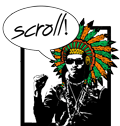
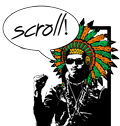
update styles

Changed region(s): [[0.15, 0.381, 0.325, 1.0], [0.4, 0.9524, 0.475, 1.0]]

diff --git a/public/css/styles.min.css b/public/css/styles.min.css
@@ -1,2 +1,2 @@
-*{-webkit-box-sizing:border-box;-moz-box-sizing:border-box;box-sizing:border-box}html,body{margin:0;padding:0}html{font-family:"Helvetica Neue", Helvetica, Arial, sans-serif;font-size:16px;line-height:1.5}@media (min-width: 38em){html{font-size:20px}}body{color:#515151;background-color:#fff;-webkit-text-size-adjust:100%;-ms-text-size-adjust:100%}a{color:#268bd2;text-decoration:none}a strong{color:inherit}a:hover,a:focus{text-decoration:underline}h1,h2,h3,h4,h5,h6{margin-bottom:.5rem;font-weight:bold;line-height:1.25;color:#313131;text-rendering:optimizeLegibility}h1{font-size:2rem}h2{margin-top:1rem;font-size:1.5rem}h3{margin-top:1.5rem;font-size:1.25rem}h4,h5,h6{margin-top:1rem;font-size:1rem}p{margin-top:0;margin-bottom:1rem}strong{color:#303030}ul,ol,dl{margin-top:0;margin-bottom:1rem}dt{font-weight:bold}dd{margin-bottom:.5rem}hr{position:relative;margin:1.5rem 0;border:0;border-top:1px solid #eee;border-bottom:1px solid #fff}abbr{font-size:85%;font-weight:bold;color:#555;text-transform:uppercase}abbr[title]{cursor:help;border-bottom:1px dotted #e5e5e5}code,pre{font-family:Menlo, Monaco, "Courier New", monospace}code{padding:.25em .5em;font-size:85%;color:#bf616a;background-color:#f9f9f9;border-radius:3px}pre{display:block;margin-top:0;margin-bottom:1rem;padding:1rem;font-size:.8rem;line-height:1.4;white-space:pre;word-break:normal;word-wrap:normal;overflow:auto;background-color:#f9f9f9}pre code{padding:0;font-size:100%;color:inherit;background-color:transparent}.highlight{margin-bottom:1rem;border-radius:4px}.highlight pre{margin-bottom:0}.gist .gist-file{font-family:Menlo, Monaco, "Courier New", monospace !important}.gist .markdown-body{padding:15px}.gist pre{padding:0;background-color:transparent}.gist .gist-file .gist-data{font-size:.8rem !important;line-height:1.4}.gist code{padding:0;color:inherit;background-color:transparent;border-radius:0}blockquote{padding:.5rem 1rem;margin:.8rem 0;color:#7a7a7a;border-left:.25rem solid #e5e5e5}blockquote p:last-child{margin-bottom:0}@media (min-width: 30em){blockquote{padding-right:5rem;padding-left:1.25rem}}img{display:block;max-width:100%;margin:0 0 1rem;border-radius:5px}table{margin-bottom:1rem;width:100%;border:1px solid #e5e5e5;border-collapse:collapse}td,th{padding:.25rem .5rem;border:1px solid #e5e5e5}tbody tr:nth-child(odd) td,tbody tr:nth-child(odd) th{background-color:#f9f9f9}.lead{font-size:1.25rem;font-weight:300}.message{margin-bottom:1rem;padding:1rem;color:#717171;background-color:#f9f9f9}.container{max-width:38rem;padding-left:1rem;padding-right:1rem;margin-left:auto;margin-right:auto}.masthead{padding-top:1rem;padding-bottom:1rem;margin-bottom:3rem}.masthead-title{margin-top:0;margin-bottom:0;color:#505050}.masthead-title a{color:#505050}.masthead-title small{font-size:75%;font-weight:400;color:#c0c0c0;letter-spacing:0}.page,.post{margin-bottom:4em}.page-title,.post-title,.post-title a{color:#303030}.page-title,.post-title{margin-top:0}.post-date{display:block;margin-top:-.5rem;margin-bottom:1rem;color:#9a9a9a}.related{padding-top:2rem;padding-bottom:2rem;border-top:1px solid #eee}.related-posts{padding-left:0;list-style:none}.related-posts h3{margin-top:0}.related-posts li small{font-size:75%;color:#999}.related-posts li a:hover{color:#268bd2;text-decoration:none}.related-posts li a:hover small{color:inherit}.pagination{overflow:hidden;margin-left:-1rem;margin-right:-1rem;font-family:"PT Sans", Helvetica, Arial, sans-serif;color:#ccc;text-align:center}.pagination-item{display:block;padding:1rem;border:1px solid #eee}.pagination-item:first-child{margin-bottom:-1px}a.pagination-item:hover{background-color:#f5f5f5}@media (min-width: 30em){.pagination{margin:3rem 0}.pagination-item{float:left;width:50%}.pagination-item:first-child{margin-bottom:0;border-top-left-radius:4px;border-bottom-left-radius:4px}.pagination-item:last-child{margin-left:-1px;border-top-right-radius:4px;border-bottom-right-radius:4px}}.highlight .hll{background-color:#ffc}.highlight .c{color:#999}.highlight .err{color:#a00;background-color:#faa}.highlight .k{color:#069}.highlight .o{color:#555}.highlight .cm{color:#09f;font-style:italic}.highlight .cp{color:#099}.highlight .c1{color:#999}.highlight .cs{color:#999}.highlight .gd{background-color:#fcc;border:1px solid #c00}.highlight .ge{font-style:italic}.highlight .gr{color:red}.highlight .gh{color:#030}.highlight .gi{background-color:#cfc;border:1px solid #0c0}.highlight .go{color:#aaa}.highlight .gp{color:#009}.highlight .gu{color:#030}.highlight .gt{color:#9c6}.highlight .kc{color:#069}.highlight .kd{color:#069}.highlight .kn{color:#069}.highlight .kp{color:#069}.highlight .kr{color:#069}.highlight .kt{color:#078}.highlight .m{color:#f60}.highlight .s{color:#d44950}.highlight .na{color:#4f9fcf}.highlight .nb{color:#366}.highlight .nc{color:#0a8}.highlight .no{color:#360}.highlight .nd{color:#99f}.highlight .ni{color:#999}.highlight .ne{color:#c00}.highlight .nf{color:#c0f}.highlight .nl{color:#99f}.highlight .nn{color:#0cf}.highlight .nt{color:#2f6f9f}.highlight .nv{color:#033}.highlight .ow{color:#000}.highlight .w{color:#bbb}.highlight .mf{color:#f60}.highlight .mh{color:#f60}.highlight .mi{color:#f60}.highlight .mo{color:#f60}.highlight .sb{color:#c30}.highlight .sc{color:#c30}.highlight .sd{color:#c30;font-style:italic}.highlight .s2{color:#c30}.highlight .se{color:#c30}.highlight .sh{color:#c30}.highlight .si{color:#a00}.highlight .sx{color:#c30}.highlight .sr{color:#3aa}.highlight .s1{color:#c30}.highlight .ss{color:#fc3}.highlight .bp{color:#366}.highlight .vc{color:#033}.highlight .vg{color:#033}.highlight .vi{color:#033}.highlight .il{color:#f60}.css .o,.css .o+.nt,.css .nt+.nt{color:#999}html{font-family:"PT Sans", Helvetica, Arial, sans-serif}@media (min-width: 48em){html{font-size:16px}}@media (min-width: 58em){html{font-size:20px}}.sidebar{text-align:center;padding:2rem 1rem;color:rgba(255,255,255,0.5);background-color:#202020}@media (min-width: 48em){.sidebar{position:fixed;top:0;left:0;bottom:0;width:18rem;text-align:left}}.sidebar a{color:#fff}.sidebar-about h1{color:#fff;margin-top:0;font-family:"Abril Fatface", serif;font-size:3.25rem}.sidebar-nav{margin-bottom:1rem}.sidebar-nav-item{display:block}a.sidebar-nav-item:hover,a.sidebar-nav-item:focus{text-decoration:underline}.sidebar-nav-item.active{font-weight:bold}@media (min-width: 48em){.sidebar-sticky{position:absolute;right:1rem;bottom:1rem;left:1rem}}.content{padding-top:4rem;padding-bottom:4rem}@media (min-width: 48em){.content{max-width:55rem;margin-left:20rem;margin-right:2rem}}@media (min-width: 64em){.content{margin-left:22rem;margin-right:4rem}}@media (min-width: 48em){.layout-reverse .sidebar{left:auto;right:0}.layout-reverse .content{margin-left:2rem;margin-right:20rem}}@media (min-width: 64em){.layout-reverse .content{margin-left:4rem;margin-right:22rem}}.theme-base-08 .sidebar{background-color:#ac4142}.theme-base-08 .content a,.theme-base-08 .related-posts li a:hover{color:#ac4142}.theme-base-09 .sidebar{background-color:#d28445}.theme-base-09 .content a,.theme-base-09 .related-posts li a:hover{color:#d28445}.theme-base-0a .sidebar{background-color:#f4bf75}.theme-base-0a .content a,.theme-base-0a .related-posts li a:hover{color:#f4bf75}.theme-base-0b .sidebar{background-color:#90a959}.theme-base-0b .content a,.theme-base-0b .related-posts li a:hover{color:#90a959}.theme-base-0c .sidebar{background-color:#75b5aa}.theme-base-0c .content a,.theme-base-0c .related-posts li a:hover{color:#75b5aa}.theme-base-0d .sidebar{background-color:#6a9fb5}.theme-base-0d .content a,.theme-base-0d .related-posts li a:hover{color:#6a9fb5}.theme-base-0e .sidebar{background-color:#aa759f}.theme-base-0e .content a,.theme-base-0e .related-posts li a:hover{color:#aa759f}.theme-base-0f .sidebar{background-color:#8f5536}.theme-base-0f .content a,.theme-base-0f .related-posts li a:hover{color:#8f5536}.pow-wow{position:fixed;bottom:-13px;right:0}.read-more{width:85%;margin:30px 0 100px;text-align:center;font-size:large}.read-more a{padding:10px;border:1px solid;text-decoration:none;transition:background 300ms}.read-more a:hover{background:rgba(43,167,255,0.25)}
+*{-webkit-box-sizing:border-box;-moz-box-sizing:border-box;box-sizing:border-box}html,body{margin:0;padding:0}html{font-family:"Helvetica Neue", Helvetica, Arial, sans-serif;font-size:16px;line-height:1.5}@media (min-width: 38em){html{font-size:20px}}body{color:#515151;background-color:#fff;-webkit-text-size-adjust:100%;-ms-text-size-adjust:100%}a{color:#268bd2;text-decoration:none}a strong{color:inherit}a:hover,a:focus{text-decoration:underline}h1,h2,h3,h4,h5,h6{margin-bottom:.5rem;font-weight:bold;line-height:1.25;color:#313131;text-rendering:optimizeLegibility}h1{font-size:2rem}h2{margin-top:1rem;font-size:1.5rem}h3{margin-top:1.5rem;font-size:1.25rem}h4,h5,h6{margin-top:1rem;font-size:1rem}p{margin-top:0;margin-bottom:1rem}strong{color:#303030}ul,ol,dl{margin-top:0;margin-bottom:1rem}dt{font-weight:bold}dd{margin-bottom:.5rem}hr{position:relative;margin:1.5rem 0;border:0;border-top:1px solid #eee;border-bottom:1px solid #fff}abbr{font-size:85%;font-weight:bold;color:#555;text-transform:uppercase}abbr[title]{cursor:help;border-bottom:1px dotted #e5e5e5}code,pre{font-family:Menlo, Monaco, "Courier New", monospace}code{padding:.25em .5em;font-size:85%;color:#bf616a;background-color:#f9f9f9;border-radius:3px}pre{display:block;margin-top:0;margin-bottom:1rem;padding:1rem;font-size:.8rem;line-height:1.4;white-space:pre;word-break:normal;word-wrap:normal;overflow:auto;background-color:#f9f9f9}pre code{padding:0;font-size:100%;color:inherit;background-color:transparent}.highlight{margin-bottom:1rem;border-radius:4px}.highlight pre{margin-bottom:0}.gist .gist-file{font-family:Menlo, Monaco, "Courier New", monospace !important}.gist .markdown-body{padding:15px}.gist pre{padding:0;background-color:transparent}.gist .gist-file .gist-data{font-size:.8rem !important;line-height:1.4}.gist code{padding:0;color:inherit;background-color:transparent;border-radius:0}blockquote{padding:.5rem 1rem;margin:.8rem 0;color:#7a7a7a;border-left:.25rem solid #e5e5e5}blockquote p:last-child{margin-bottom:0}@media (min-width: 30em){blockquote{padding-right:5rem;padding-left:1.25rem}}img{display:block;max-width:100%;margin:0 0 1rem;border-radius:5px}table{margin-bottom:1rem;width:100%;border:1px solid #e5e5e5;border-collapse:collapse}td,th{padding:.25rem .5rem;border:1px solid #e5e5e5}tbody tr:nth-child(odd) td,tbody tr:nth-child(odd) th{background-color:#f9f9f9}.lead{font-size:1.25rem;font-weight:300}.message{margin-bottom:1rem;padding:1rem;color:#717171;background-color:#f9f9f9}.container{max-width:38rem;padding-left:1rem;padding-right:1rem;margin-left:auto;margin-right:auto}.masthead{padding-top:1rem;padding-bottom:1rem;margin-bottom:3rem}.masthead-title{margin-top:0;margin-bottom:0;color:#505050}.masthead-title a{color:#505050}.masthead-title small{font-size:75%;font-weight:400;color:#c0c0c0;letter-spacing:0}.page,.post{margin-bottom:4em}.page-title,.post-title,.post-title a{color:#303030}.page-title,.post-title{margin-top:0}.post-date{display:block;margin-top:-.5rem;margin-bottom:1rem;color:#9a9a9a}.related{padding-top:2rem;padding-bottom:2rem;border-top:1px solid #eee}.related-posts{padding-left:0;list-style:none}.related-posts h3{margin-top:0}.related-posts li small{font-size:75%;color:#999}.related-posts li a:hover{color:#268bd2;text-decoration:none}.related-posts li a:hover small{color:inherit}.pagination{overflow:hidden;margin-left:-1rem;margin-right:-1rem;font-family:"PT Sans", Helvetica, Arial, sans-serif;color:#ccc;text-align:center}.pagination-item{display:block;padding:1rem;border:1px solid #eee}.pagination-item:first-child{margin-bottom:-1px}a.pagination-item:hover{background-color:#f5f5f5}@media (min-width: 30em){.pagination{margin:3rem 0}.pagination-item{float:left;width:50%}.pagination-item:first-child{margin-bottom:0;border-top-left-radius:4px;border-bottom-left-radius:4px}.pagination-item:last-child{margin-left:-1px;border-top-right-radius:4px;border-bottom-right-radius:4px}}.highlight .hll{background-color:#ffc}.highlight .c{color:#999}.highlight .err{color:#a00;background-color:#faa}.highlight .k{color:#069}.highlight .o{color:#555}.highlight .cm{color:#09f;font-style:italic}.highlight .cp{color:#099}.highlight .c1{color:#999}.highlight .cs{color:#999}.highlight .gd{background-color:#fcc;border:1px solid #c00}.highlight .ge{font-style:italic}.highlight .gr{color:red}.highlight .gh{color:#030}.highlight .gi{background-color:#cfc;border:1px solid #0c0}.highlight .go{color:#aaa}.highlight .gp{color:#009}.highlight .gu{color:#030}.highlight .gt{color:#9c6}.highlight .kc{color:#069}.highlight .kd{color:#069}.highlight .kn{color:#069}.highlight .kp{color:#069}.highlight .kr{color:#069}.highlight .kt{color:#078}.highlight .m{color:#f60}.highlight .s{color:#d44950}.highlight .na{color:#4f9fcf}.highlight .nb{color:#366}.highlight .nc{color:#0a8}.highlight .no{color:#360}.highlight .nd{color:#99f}.highlight .ni{color:#999}.highlight .ne{color:#c00}.highlight .nf{color:#c0f}.highlight .nl{color:#99f}.highlight .nn{color:#0cf}.highlight .nt{color:#2f6f9f}.highlight .nv{color:#033}.highlight .ow{color:#000}.highlight .w{color:#bbb}.highlight .mf{color:#f60}.highlight .mh{color:#f60}.highlight .mi{color:#f60}.highlight .mo{color:#f60}.highlight .sb{color:#c30}.highlight .sc{color:#c30}.highlight .sd{color:#c30;font-style:italic}.highlight .s2{color:#c30}.highlight .se{color:#c30}.highlight .sh{color:#c30}.highlight .si{color:#a00}.highlight .sx{color:#c30}.highlight .sr{color:#3aa}.highlight .s1{color:#c30}.highlight .ss{color:#fc3}.highlight .bp{color:#366}.highlight .vc{color:#033}.highlight .vg{color:#033}.highlight .vi{color:#033}.highlight .il{color:#f60}.css .o,.css .o+.nt,.css .nt+.nt{color:#999}html{font-family:"PT Sans", Helvetica, Arial, sans-serif}@media (min-width: 48em){html{font-size:16px}}@media (min-width: 58em){html{font-size:20px}}.sidebar{text-align:center;padding:2rem 1rem;color:rgba(255,255,255,0.5);background-color:#202020}@media (min-width: 48em){.sidebar{position:fixed;top:0;left:0;bottom:0;width:18rem;text-align:left}}.sidebar a{color:#fff}.sidebar-about h1{color:#fff;margin-top:0;font-family:"Abril Fatface", serif;font-size:3.25rem}.sidebar-nav{margin-bottom:1rem}.sidebar-nav-item{display:block}a.sidebar-nav-item:hover,a.sidebar-nav-item:focus{text-decoration:underline}.sidebar-nav-item.active{font-weight:bold}@media (min-width: 48em){.sidebar-sticky{position:absolute;right:1rem;bottom:1rem;left:1rem}}.content{padding-top:4rem;padding-bottom:4rem}@media (min-width: 48em){.content{max-width:55rem;margin-left:20rem;margin-right:2rem}}@media (min-width: 64em){.content{margin-left:22rem;margin-right:4rem}}@media (min-width: 48em){.layout-reverse .sidebar{left:auto;right:0}.layout-reverse .content{margin-left:2rem;margin-right:20rem}}@media (min-width: 64em){.layout-reverse .content{margin-left:4rem;margin-right:22rem}}.theme-base-08 .sidebar{background-color:#ac4142}.theme-base-08 .content a,.theme-base-08 .related-posts li a:hover{color:#ac4142}.theme-base-09 .sidebar{background-color:#d28445}.theme-base-09 .content a,.theme-base-09 .related-posts li a:hover{color:#d28445}.theme-base-0a .sidebar{background-color:#f4bf75}.theme-base-0a .content a,.theme-base-0a .related-posts li a:hover{color:#f4bf75}.theme-base-0b .sidebar{background-color:#90a959}.theme-base-0b .content a,.theme-base-0b .related-posts li a:hover{color:#90a959}.theme-base-0c .sidebar{background-color:#75b5aa}.theme-base-0c .content a,.theme-base-0c .related-posts li a:hover{color:#75b5aa}.theme-base-0d .sidebar{background-color:#6a9fb5}.theme-base-0d .content a,.theme-base-0d .related-posts li a:hover{color:#6a9fb5}.theme-base-0e .sidebar{background-color:#aa759f}.theme-base-0e .content a,.theme-base-0e .related-posts li a:hover{color:#aa759f}.theme-base-0f .sidebar{background-color:#8f5536}.theme-base-0f .content a,.theme-base-0f .related-posts li a:hover{color:#8f5536}.pow-wow{position:fixed;bottom:-16px;right:-9px}.read-more{width:85%;margin:30px 0 100px;text-align:center;font-size:large}.read-more a{padding:10px;border:1px solid;text-decoration:none;transition:background 300ms}.read-more a:hover{background:rgba(43,167,255,0.25)}
 /*# sourceMappingURL=styles.min.css.map */

diff --git a/_layouts/default.html b/_layouts/default.html
@@ -11,5 +11,16 @@
       {{ content }}
     </div>
 
+    <script>
+        (function(i,s,o,g,r,a,m){i['GoogleAnalyticsObject']=r;i[r]=i[r]||function(){
+                    (i[r].q=i[r].q||[]).push(arguments)},i[r].l=1*new Date();a=s.createElement(o),
+                m=s.getElementsByTagName(o)[0];a.async=1;a.src=g;m.parentNode.insertBefore(a,m)
+        })(window,document,'script','https://www.google-analytics.com/analytics.js','ga');
+
+        ga('create', 'UA-21865438-1', 'auto');
+        ga('send', 'pageview');
+
+    </script>
+
   </body>
 </html>

diff --git a/pttp/index.html b/pttp/index.html
@@ -238,11 +238,6 @@
         <script src="js/vendor/bootstrap.min.js"></script>
         <script src="js/main.js"></script>
 
-        <script>
-            var _gaq=[['_setAccount','UA-21865438-1'],['_trackPageview']];
-            (function(d,t){var g=d.createElement(t),s=d.getElementsByTagName(t)[0];
-            g.src=('https:'==location.protocol?'//ssl':'//www')+'.google-analytics.com/ga.js';
-            s.parentNode.insertBefore(g,s)}(document,'script'));
-        </script>
+
     </body>
 </html>

diff --git a/public/css/styles.css b/public/css/styles.css
@@ -828,8 +828,8 @@ a.sidebar-nav-item:focus {
 
 .pow-wow {
   position: fixed;
-  bottom: -13px;
-  right: 0; }
+  bottom: -16px;
+  right: -9px; }
 
 .read-more {
   width: 85%;

diff --git a/public/sass/object/_pow-wow.scss b/public/sass/object/_pow-wow.scss
@@ -1,5 +1,5 @@
 .pow-wow {
   position: fixed;
-  bottom: -13px;
-  right: 0;
+  bottom: -16px;
+  right: -9px;
 }
